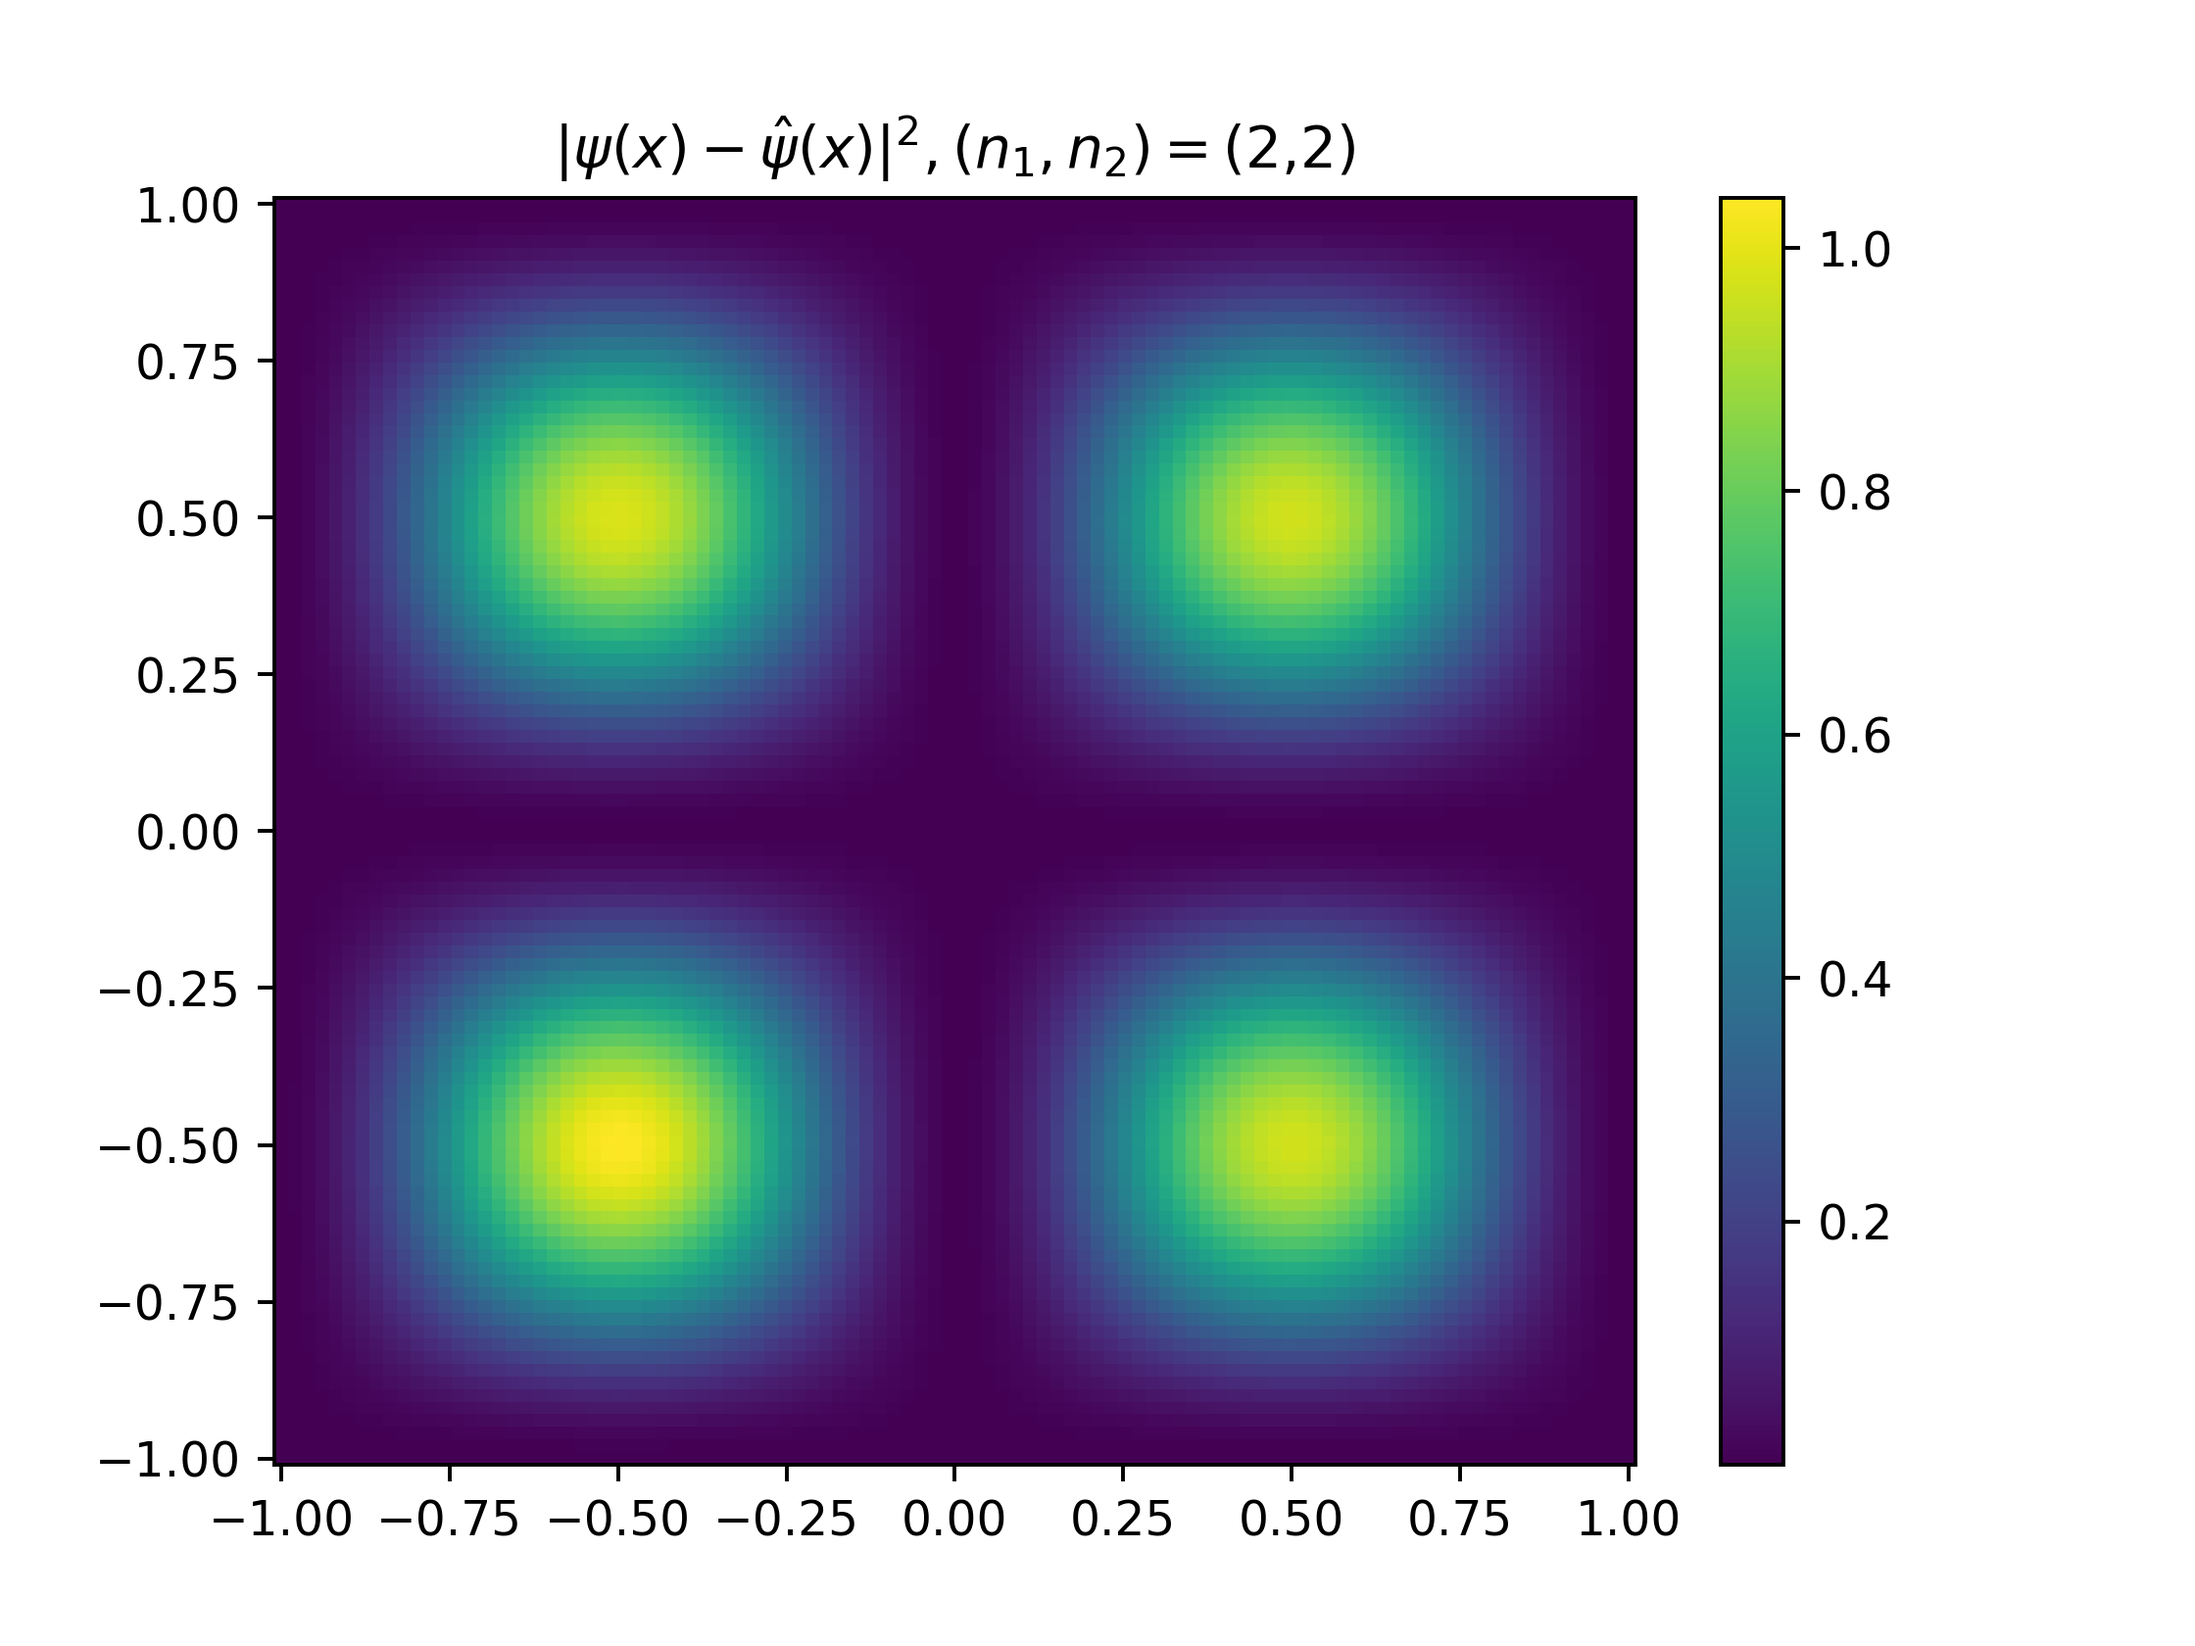
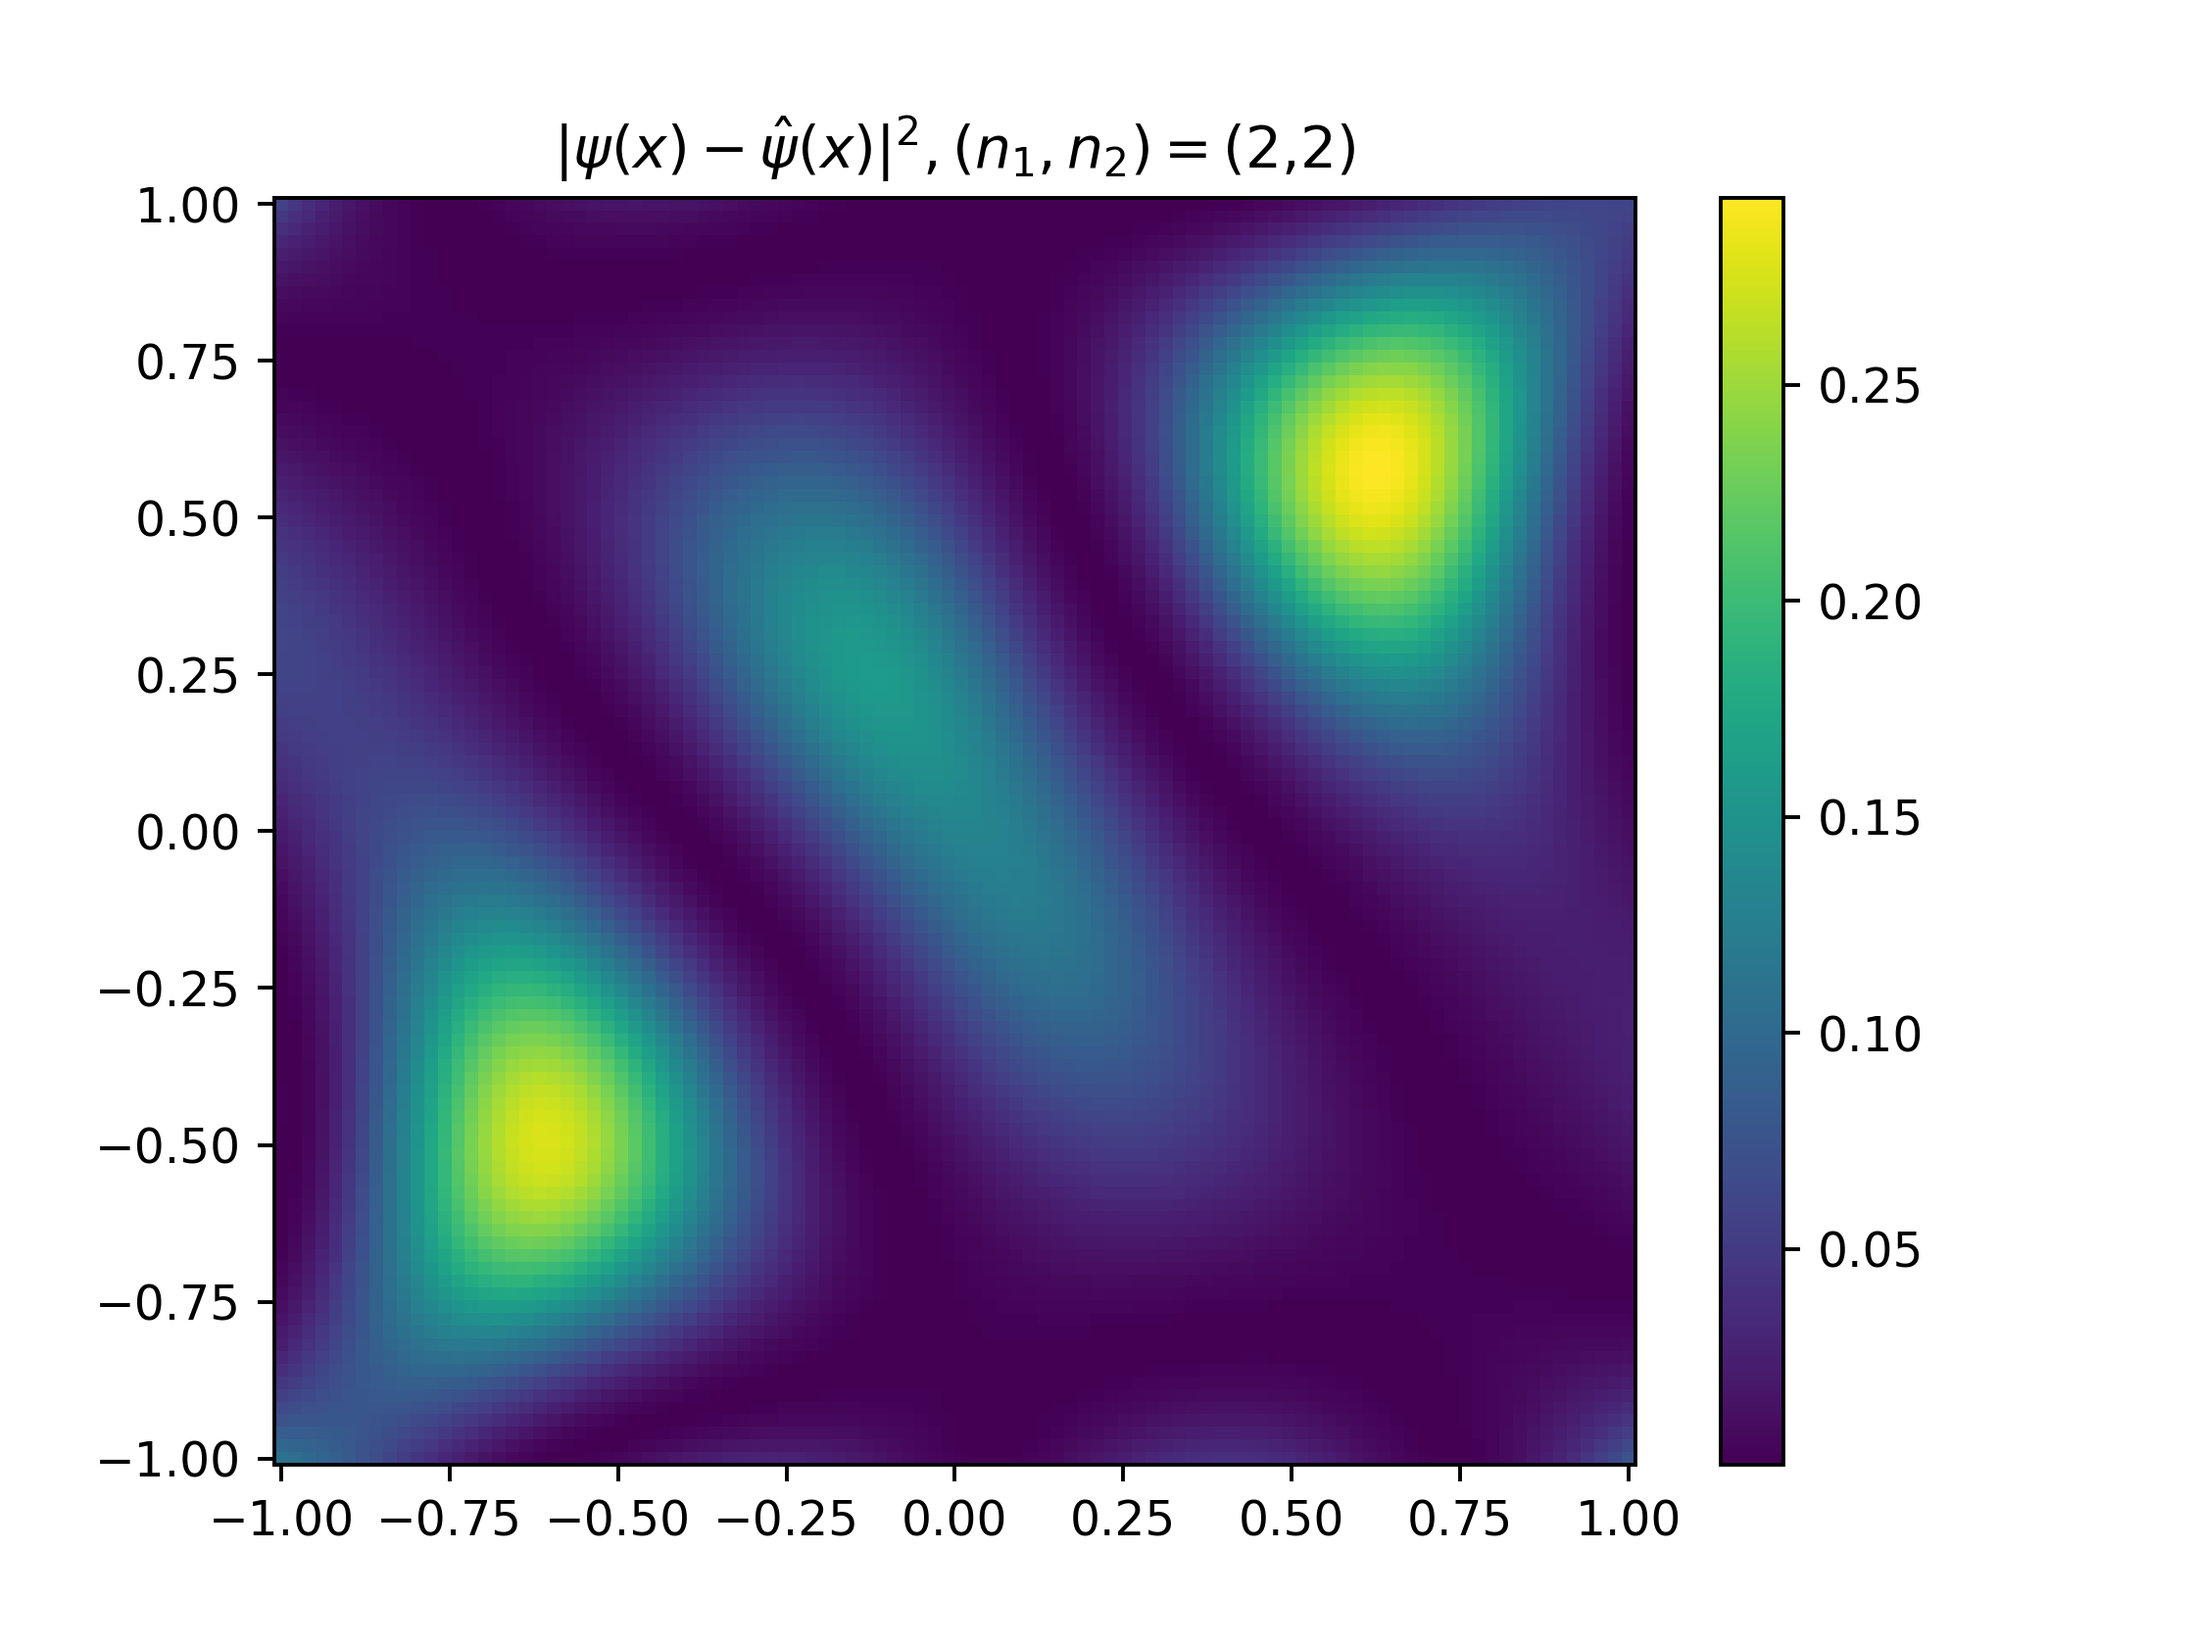
lab10

diff --git a/lab10/Lukasz-Stepien-laboratorium-10-kod.py b/lab10/Lukasz-Stepien-laboratorium-10-kod.py
@@ -75,13 +75,13 @@ def draw_model( model,n1,n2 ):
     plt.savefig(f"lab10/pictures/DeepXDE ψ(x,y) dla (n1,n2)=({n1},{n2})", dpi=350)
     # plt.show()
     
-# model11,train_state11 = solve(pde11,[[0, 0]], [1])
-# draw_model(model11,1,1)
-# model12,train_state12 = solve(pde12,[0, -0.5], [1])
-# draw_model(model12,1,2)
-# model21,train_state21 = solve(pde21,[-0.5, 0], [1])
-# draw_model(model21,2,1)
-model22,train_state22 = solve(pde22,[[-0.5, 0.5],[0.5, -0.5],[-0.5, -0.5]], [-1,-1,1])
+model11,train_state11 = solve(pde11,[[0, 0]], [1])
+draw_model(model11,1,1)
+model12,train_state12 = solve(pde12,[0, -0.5], [1])
+draw_model(model12,1,2)
+model21,train_state21 = solve(pde21,[-0.5, 0], [1])
+draw_model(model21,2,1)
+model22,train_state22 = solve(pde22,[[-0.5, 0.5],[0.5, -0.5]], [-1,-1])
 draw_model(model22,2,2)
 
 def draw_error(model, Z,n1,n2):
@@ -102,9 +102,9 @@ def draw_error(model, Z,n1,n2):
     plt.savefig(f"lab10/pictures/Błąd ψ(x,y) dla (n1,n2)=({n1},{n2})", dpi=350)
     # plt.show()
     
-# draw_error(model11, Z11,1,1)
-# draw_error(model12, Z12,1,2)
-# draw_error(model21, Z21,2,1)
+draw_error(model11, Z11,1,1)
+draw_error(model12, Z12,1,2)
+draw_error(model21, Z21,2,1)
 draw_error(model22, Z22,2,2)
 
 def draw_cost(train_state, n1,n2):
